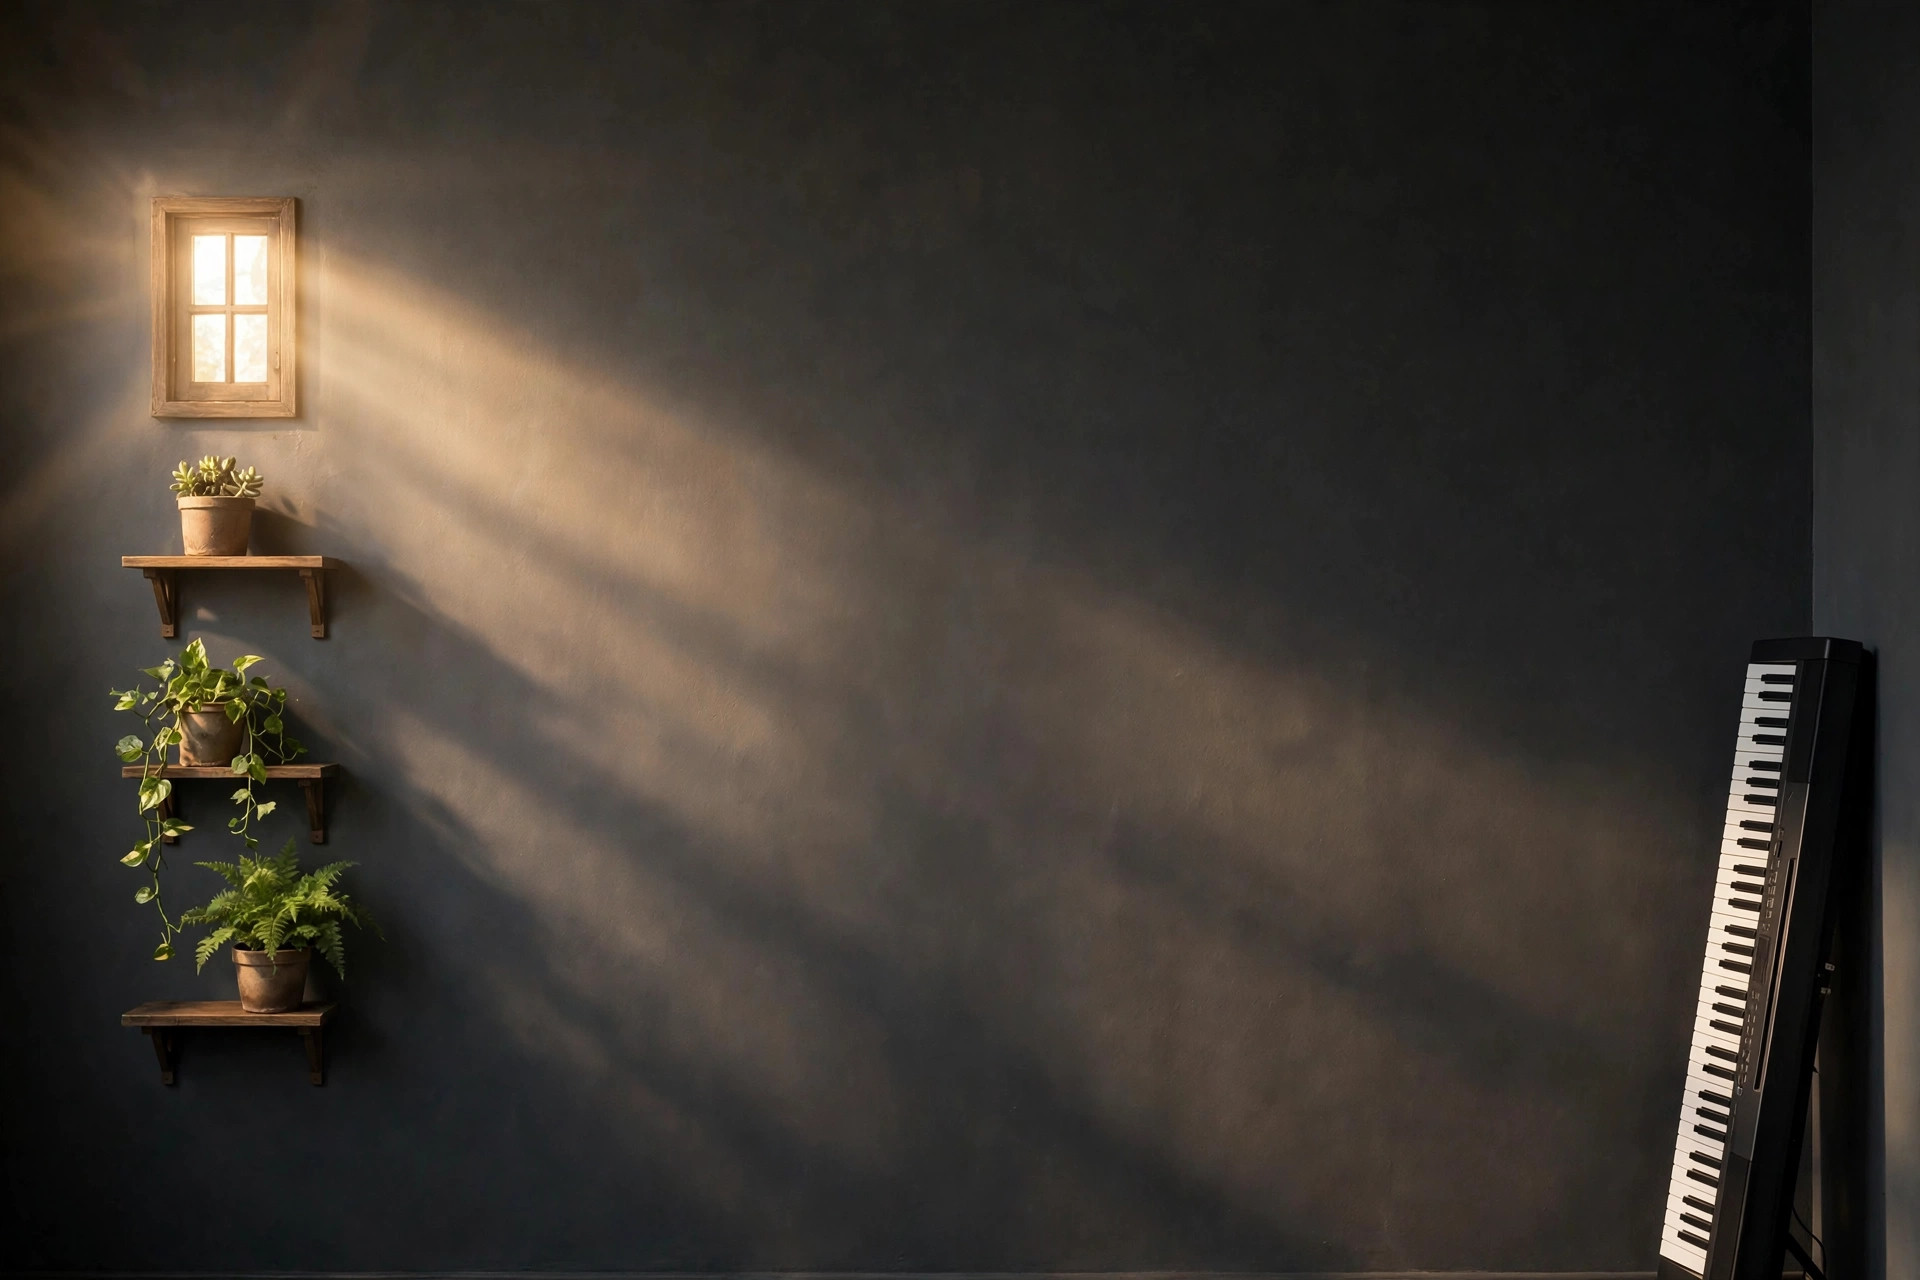
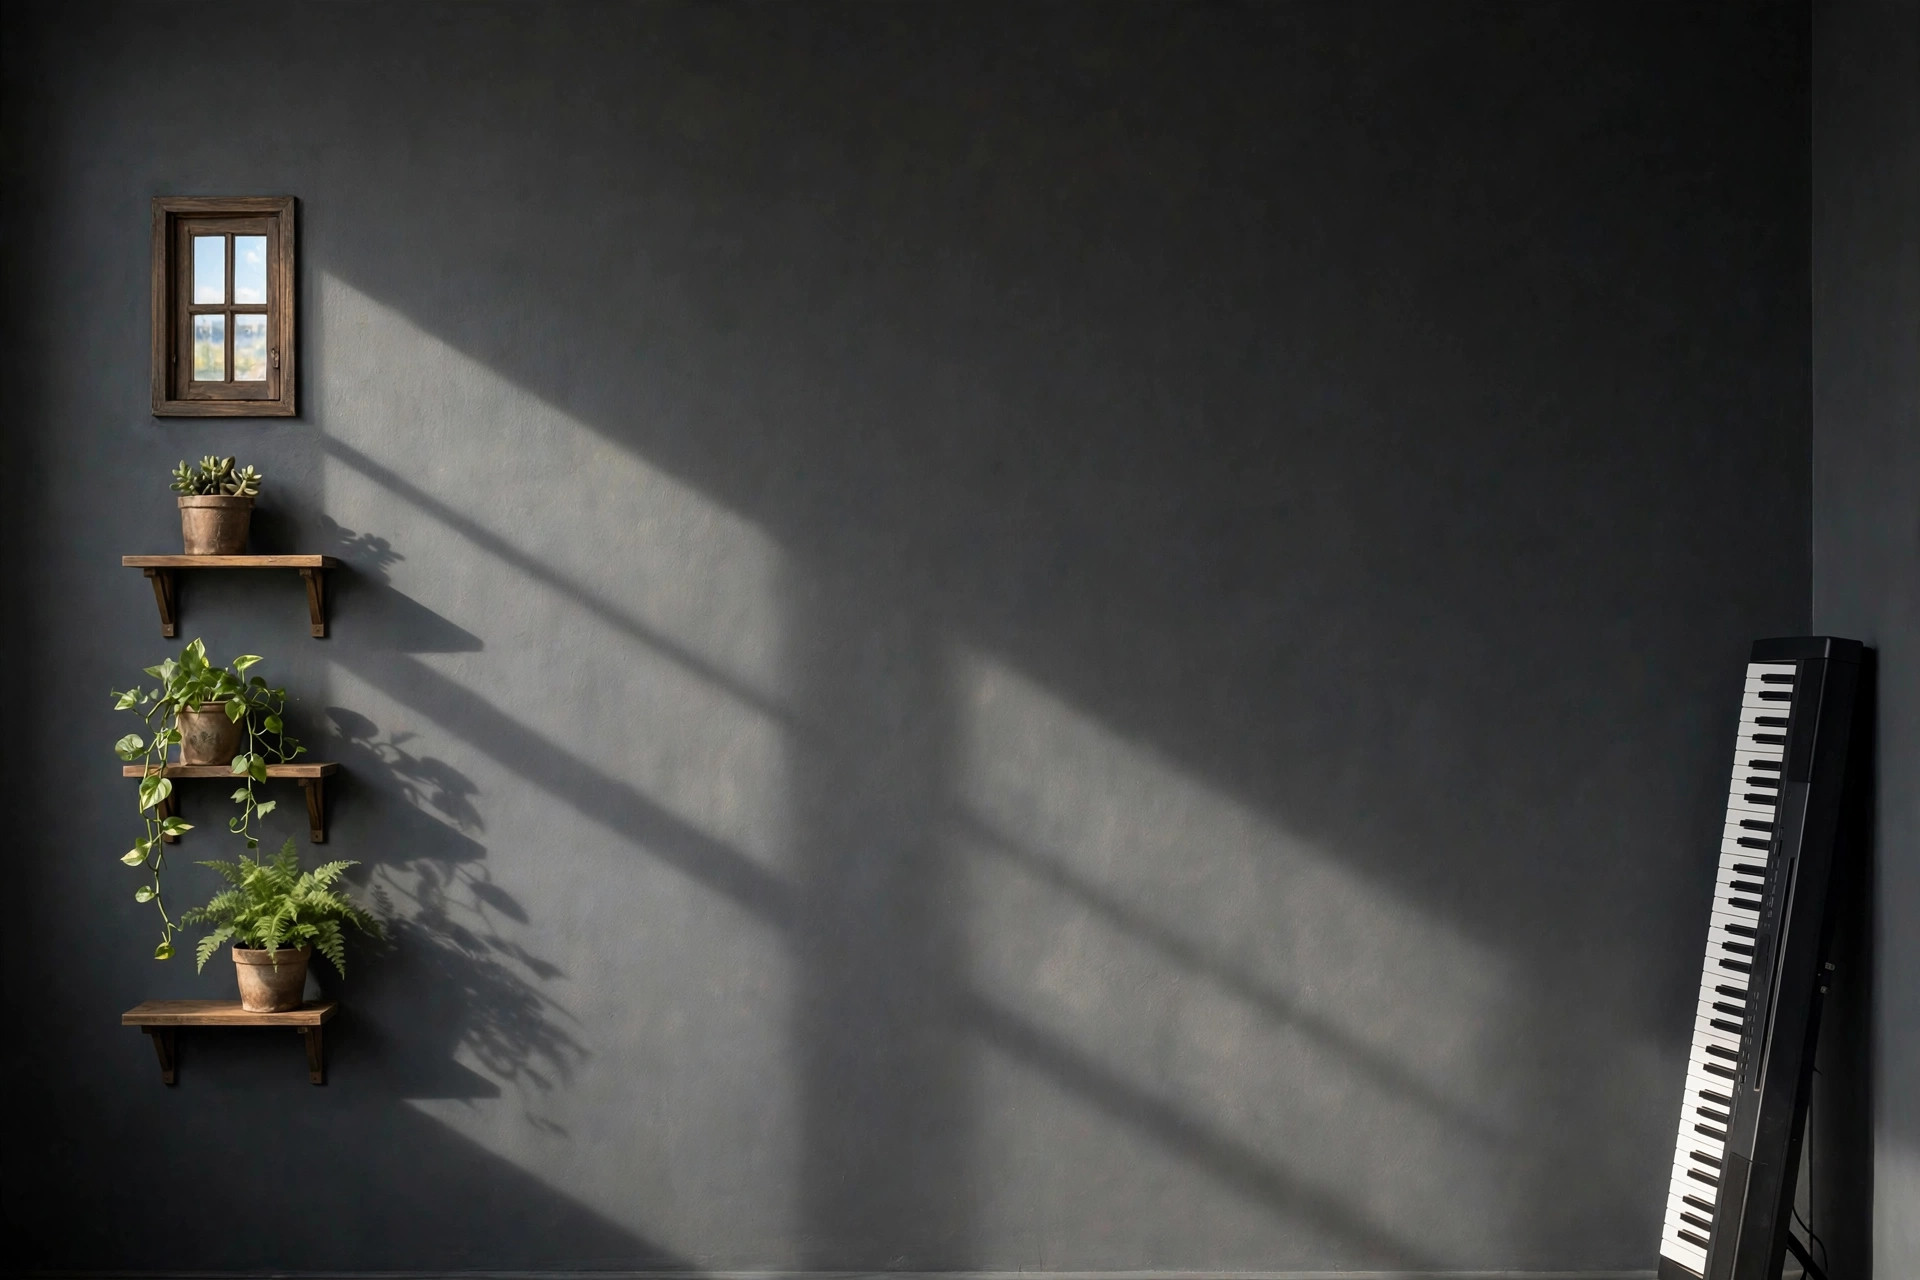
Sharper daylight mural, fix dark-mode background swap, remove shelf desk
- Regenerate office-wall-day.jpg sharp and clear (no haze).
- Fix html[data-theme] selector being dropped by Vue scoped CSS.
- Remove the shelf-desk background piece entirely.

diff --git a/src/components/Office.vue b/src/components/Office.vue
@@ -23,12 +23,6 @@ const trackClass = computed(() => ({
     <div class="office-track" :class="trackClass">
       <!-- Shelf view: the bookshelf (backdrop or interactive when bound). -->
       <div class="office-slide office-shelf" aria-label="Bookshelf">
-        <!-- Desk under the bookshelf: a simple background piece, not the
-             interactive desk. In dark mode a candle silhouette sits on it. -->
-        <div class="shelf-desk" aria-hidden="true">
-          <div class="shelf-desk-candle"></div>
-          <div class="shelf-desk-front"></div>
-        </div>
         <Bookshelf
           :backdrop="!office.manuscriptBound"
           :interactive="true"
@@ -106,53 +100,12 @@ const trackClass = computed(() => ({
     url('/office-wall-day.jpg') center / cover no-repeat,
     #141009;
 }
-html[data-theme='dark'] .office-scene {
+:global(html[data-theme='dark']) .office-scene {
   background:
     url('/office-wall-night.jpg') center / cover no-repeat,
     #0a0d14;
 }
-/* Desk under the bookshelf: a simple front face at the bottom of the
-   shelf view. The candle pokes up above it in dark mode only. */
-.shelf-desk {
-  position: absolute;
-  left: 0;
-  right: 0;
-  bottom: 0;
-  height: 18%;
-  z-index: 2;
-  pointer-events: none;
-}
-.shelf-desk-front {
-  position: absolute;
-  inset: 0;
-  background: linear-gradient(180deg, #3a2412 0%, #2a170b 50%, #1a0e06 100%);
-  box-shadow: 0 -8px 30px rgba(0, 0, 0, 0.6);
-}
-.shelf-desk-candle {
-  position: absolute;
-  left: 12%;
-  bottom: 85%;
-  width: 14px;
-  height: 56px;
-  display: none;
-  pointer-events: none;
-  background: linear-gradient(180deg, #e8dcc0 0%, #c9b896 100%);
-  border-radius: 3px 3px 0 0;
-}
-.shelf-desk-candle::before {
-  content: '';
-  position: absolute;
-  left: 50%;
-  top: -14px;
-  width: 10px;
-  height: 16px;
-  transform: translateX(-50%);
-  background: radial-gradient(ellipse at 50% 70%, #ffd97a 0%, #ff9a3c 60%, transparent 70%);
-  border-radius: 50% 50% 50% 50% / 60% 60% 40% 40%;
-}
-html[data-theme='dark'] .shelf-desk-candle {
-  display: block;
-}
+
 .night-sky {
   position: absolute;
   inset: 0;
